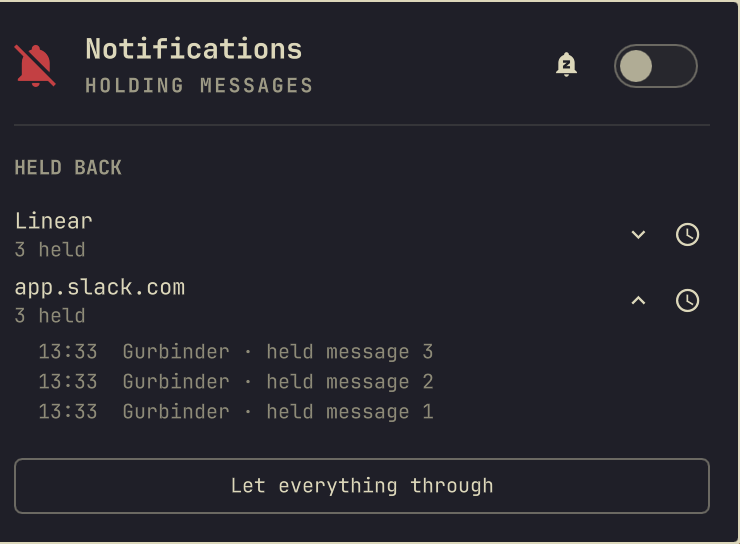
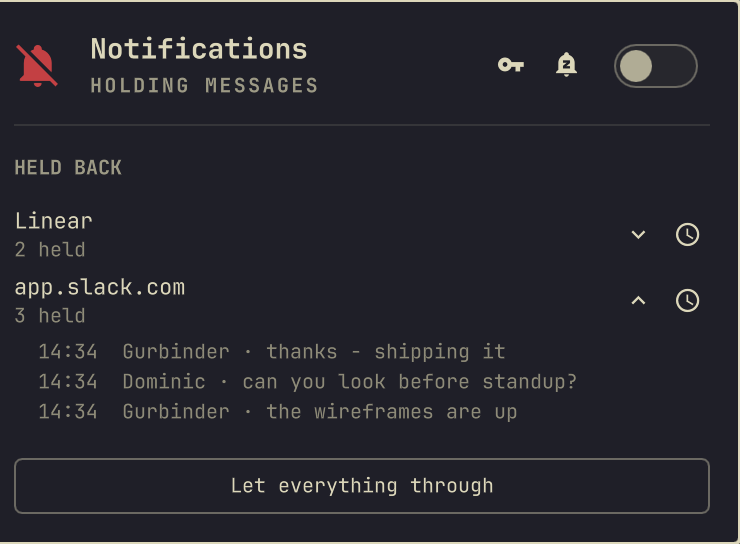
Colour the statement, not the flourish
The line under the title went red while silenced - but while silenced it
is carrying a rotating phrase, and "Absorbing alerts" in alarm-red reads
as something being wrong rather than as something being chosen. The red
crossed bell and the switch already say silenced. Only the snooze
countdown, which is a statement, keeps its colour.

And a fresh panel screenshot, now that the key is part of it.

Claude-Session: https://claude.ai/code/session_01XKofDEKd9Sdk1Kp3z7oChq

diff --git a/Widget.qml b/Widget.qml
@@ -267,11 +267,13 @@ BarWidget {
     return "Everything comes through"
   }
 
-  // The hero's own dim when there is nothing to colour - darker(1.4), which is
-  // what PanelHero uses, not the 1.55 the panel body uses for secondary text.
+  // Coloured only when the line is carrying the state. While silenced it is
+  // carrying a rotating phrase, and "Absorbing alerts" in alarm-red reads as
+  // something being wrong rather than as something being chosen - the red
+  // crossed bell and the switch already say silenced. Otherwise the hero's own
+  // dim: darker(1.4), which is PanelHero's, not the 1.55 the body uses.
   readonly property color stateColour: globalSnoozed ? snoozedColour
-                                     : silenced ? silencedColour
-                                     : Qt.darker(panelFg, 1.4)
+                                                     : Qt.darker(panelFg, 1.4)
 
   Timer {
     interval: 2800
